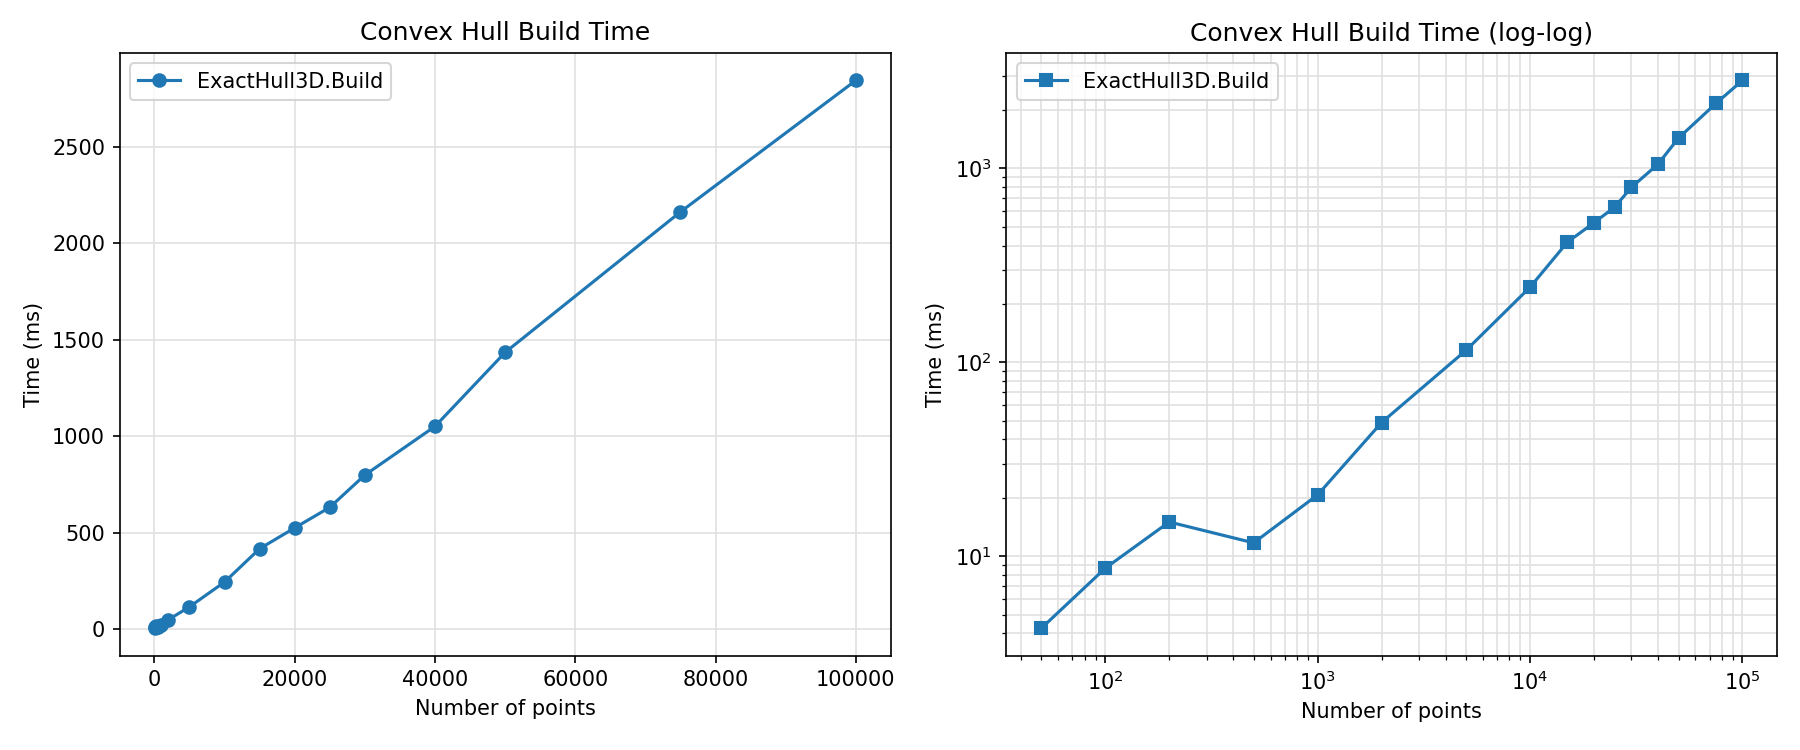
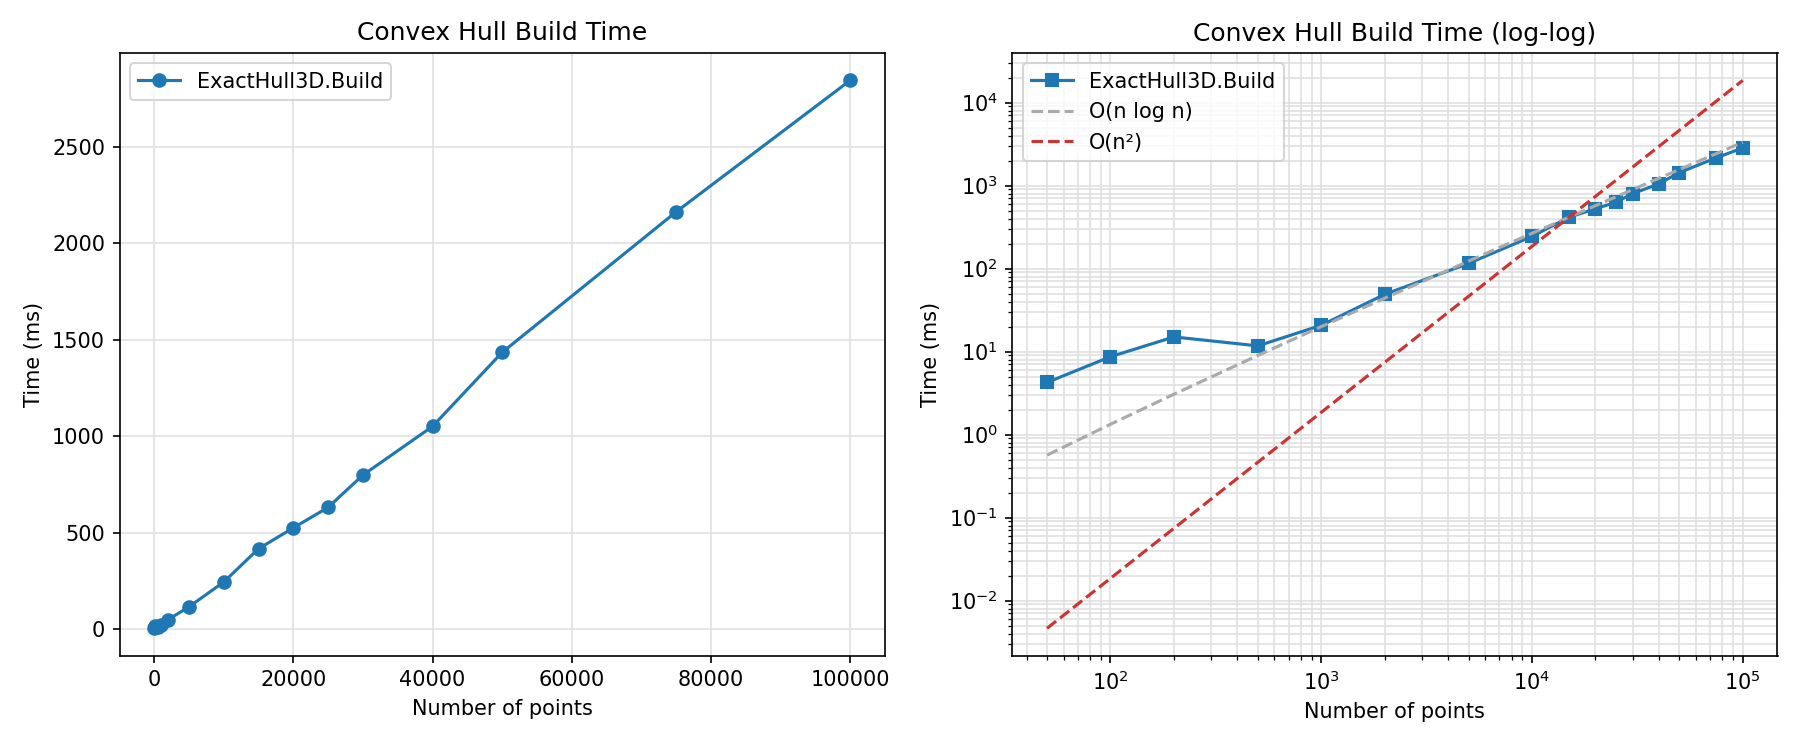
Add guide to the eye for the log-log plots

diff --git a/src/ExactHull.WebDemo/index.html b/src/ExactHull.WebDemo/index.html
@@ -119,7 +119,7 @@ canvas.emscripten {
 
     <h2>How It Works</h2>
     <ol>
-      <li><strong>Initial tetrahedron.</strong> Four non-coplanar points form the starting polytope. All remaining points are assigned to the first face they are above.</li>
+      <li><strong>Initial tetrahedron.</strong> Four non-coplanar points form the starting polytope. Each remaining point is assigned to a face it lies above.</li>
       <li><strong>Expand.</strong> For each face with outside points, the farthest point is selected. A BFS collects all faces visible from that point, identifying the horizon boundary.</li>
       <li><strong>Replace.</strong> Visible faces are removed and replaced by new triangles connecting the horizon edges to the new point.</li>
       <li><strong>Reassign.</strong> Orphaned points are reassigned to the new faces. Points now inside the polytope are discarded.</li>

diff --git a/README.md b/README.md
@@ -50,13 +50,13 @@ Every IEEE-754 `double` is imported as an exact dyadic value of the form `mantis
 
 The algorithm builds the convex hull incrementally:
 
-1. **Initial polytope.** Four non-coplanar points are selected to form an initial tetrahedron. All remaining points are assigned to the first face they are above (the *outside set*).
+1. **Initial polytope.** Four non-coplanar points are selected to form an initial tetrahedron. Each remaining point is assigned to a face it lies above (the *outside set*).
 
 2. **Expand the polytope.** For each face that has an outside set, the farthest point is selected. A BFS from that face along face adjacencies collects all faces visible from the point, identifying the *horizon* — the boundary between visible and non-visible faces.
 
 3. **Replace visible faces.** The visible faces are removed and replaced by new triangular faces connecting the horizon edges to the new point, forming a cone. The new faces are linked to each other and to the surviving neighbors across the horizon.
 
-4. **Reassign points.** Points from the removed faces' outside sets are reassigned to the first new face they lie above. Points now inside the polytope are discarded.
+4. **Reassign points.** Points from the removed faces' outside sets are each reassigned to a new face they lie above. Points now inside the polytope are discarded.
 
 5. **Repeat** until no face has any outside points remaining.
 
